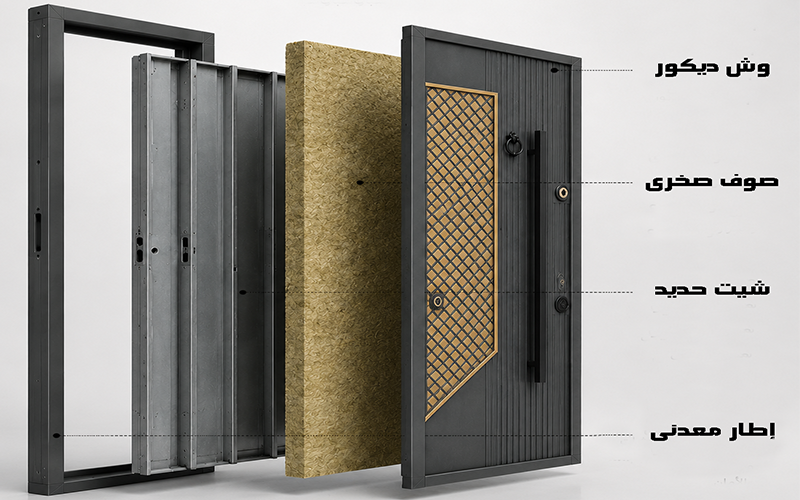
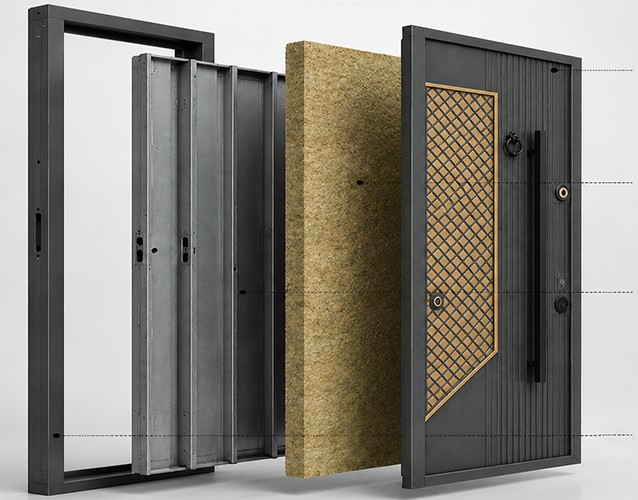
Update doors pages2

diff --git a/armored-doors.html b/armored-doors.html
@@ -6,9 +6,9 @@
     <title>الأبواب المصفحة | Hamed Balata Group</title>
 
     <!-- SEO -->
-    <meta name="description" content="الأبواب المصفحة من Hamed Balata Group: تركي تصفيح كامل، بمقاسات متعددة وسُمك ١٠ أو ١١ سم، بمواصفات أمان وعزل عالية. اختر الموديل المناسب حسب اتجاه الفتح والبار.">
+    <meta name="description" content="الأبواب المصفحة من Hamed Balata Group: تركي تصفيح كامل، سُمك ١٠ أو ١١ سم، بأعلى مواصفة تعاقد..">
     <meta property="og:title" content="الأبواب المصفحة | Hamed Balata Group">
-    <meta property="og:description" content="أقوى الأبواب المصفحة للأمان بأعلى معايير الجودة، بموديلات متعددة حسب اتجاه الفتح والبار.">
+    <meta property="og:description" content="أقوى الأبواب المصفحة للأمان بأعلى معايير الجودة، بموديلات مميزة.">
     <!-- ⚠ TODO: استبدل الرابط ده بصورة OG حقيقية بعد رفعها على السيرفر -->
     <meta property="og:image" content="https://your-domain.com/og-image.jpg">
     <!-- ⚠ TODO: استبدل ده بالدومين الفعلي للموقع بعد النشر -->
@@ -148,7 +148,7 @@
                 <h2 class="font-heading text-3xl md:text-5xl font-black text-slate-900 tracking-tight">الأبواب المصفحة</h2>
             </div>
             <p class="reveal active text-slate-600 text-base md:text-lg leading-relaxed font-medium max-w-2xl">
-                أقوى الأبواب المصفحة للأمان بأعلى معايير الجودة. اختر الموديل المناسب حسب اتجاه الفتح والبار لمشاهدة الأعمال والمعروضات الخاصة به.
+                أقوى الأبواب المصفحة للأمان بأعلى معايير الجودة
             </p>
         </div>
     </header>
@@ -158,7 +158,7 @@
         <div class="container mx-auto max-w-4xl">
 
             <!-- صورة المنتج -->
-            <div class="reveal active h-64 md:h-80 bg-slate-50 rounded-[2rem] overflow-hidden shadow-premium border border-slate-100/80 mb-10">
+            <div class="reveal active h-100 md:h-80 bg-slate-50 rounded-[2rem] overflow-hidden shadow-premium border border-slate-100/80 mb-10">
                 <!-- لا توجد صورة Cover بعد. لإضافة صورة لاحقًا ضع الملف باسم armored-doors-detail.jpg داخل مجلد products/ -->
                 <img src="products/armored-doors-detail.jpg" onerror="this.onerror=null;this.src='https://images.unsplash.com/photo-1517646331032-9e8563c520a1?w=1200&auto=format&fit=crop'" alt="الأبواب المصفحة" loading="lazy" class="w-full h-full object-cover">
             </div>
@@ -167,19 +167,19 @@
             <div class="reveal active bg-white rounded-[2rem] shadow-premium border border-slate-100/80 p-7 md:p-10 mb-10">
                 <h3 class="font-heading text-xl md:text-2xl font-black text-slate-900 tracking-tight mb-4">عن المنتج</h3>
                 <p class="text-slate-600 text-sm md:text-base leading-relaxed font-medium mb-8">
-                    كل الموديلات تركي تصفيح كامل، موجود عرض ١ متر، ومتاح كمان مقاسات خاصة بسُمك ١٠ سم أو ١١ سم.
+                    كل الموديلات تركي تصفيح كامل، موجود عرض ١ متر ومتاح كمان مقاسات خاصة، بسُمك ١٠ سم أو ١١ سم.
                 </p>
 
                 <!-- المقاسات -->
                 <h3 class="font-heading text-lg md:text-xl font-black text-slate-900 tracking-tight mb-4">المقاسات المتاحة</h3>
                 <div class="flex flex-wrap gap-2 mb-8">
-                    <span class="bg-amber-50 border border-amber-200 text-amber-700 text-sm font-bold px-4 py-2 rounded-xl">١ م (استاندرد)</span>
+                    <span class="bg-amber-50 border border-amber-200 text-amber-700 text-sm font-bold px-4 py-2 rounded-xl">١ م (standard)</span>
                     <span class="bg-slate-50 border border-slate-100 text-slate-700 text-sm font-bold px-4 py-2 rounded-xl">٩٠ سم</span>
                     <span class="bg-slate-50 border border-slate-100 text-slate-700 text-sm font-bold px-4 py-2 rounded-xl">١١٠ سم</span>
                     <span class="bg-slate-50 border border-slate-100 text-slate-700 text-sm font-bold px-4 py-2 rounded-xl">١٢٠ سم</span>
                     <span class="bg-slate-50 border border-slate-100 text-slate-700 text-sm font-bold px-4 py-2 rounded-xl">١٥٠ سم</span>
                     <span class="bg-slate-50 border border-slate-100 text-slate-700 text-sm font-bold px-4 py-2 rounded-xl">١٨٠ سم</span>
-                    <span class="bg-slate-50 border border-slate-100 text-slate-700 text-sm font-bold px-4 py-2 rounded-xl">٢٠٠ سم</span>
+                    <span class="bg-slate-50 border border-slate-100 text-slate-700 text-sm font-bold px-4 py-2 rounded-xl">٢ م</span>
                 </div>
 
                 <!-- المواصفات -->
@@ -191,11 +191,15 @@
                     </li>
                     <li class="flex items-start gap-3 text-slate-600 text-sm md:text-base font-medium">
                         <span class="text-amber-600 shrink-0 mt-0.5">●</span>
+                         شاسيه داخلي حديد مصفح كامل
+                    </li>
+                    <li class="flex items-start gap-3 text-slate-600 text-sm md:text-base font-medium">
+                        <span class="text-amber-600 shrink-0 mt-0.5">●</span>
                         حشو صوف صخري لعزل الصوت والحرارة
                     </li>
                     <li class="flex items-start gap-3 text-slate-600 text-sm md:text-base font-medium">
                         <span class="text-amber-600 shrink-0 mt-0.5">●</span>
-                        تصفيح كامل + شِفّة أمان ١ سم
+                        شِفّة أمان ١ سم
                     </li>
                     <li class="flex items-start gap-3 text-slate-600 text-sm md:text-base font-medium">
                         <span class="text-amber-600 shrink-0 mt-0.5">●</span>
@@ -203,15 +207,7 @@
                     </li>
                     <li class="flex items-start gap-3 text-slate-600 text-sm md:text-base font-medium">
                         <span class="text-amber-600 shrink-0 mt-0.5">●</span>
-                        مقبض خارجي ثابت
-                    </li>
-                    <li class="flex items-start gap-3 text-slate-600 text-sm md:text-base font-medium">
-                        <span class="text-amber-600 shrink-0 mt-0.5">●</span>
-                        عين سحرية
-                    </li>
-                    <li class="flex items-start gap-3 text-slate-600 text-sm md:text-base font-medium">
-                        <span class="text-amber-600 shrink-0 mt-0.5">●</span>
-                        وش MDF خارجي ١٠ مم بقشرة (طبيعية/أكريليك/صناعية)
+                        وش MDF خارجي ديكوري ١٠ مم
                     </li>
                     <li class="flex items-start gap-3 text-slate-600 text-sm md:text-base font-medium">
                         <span class="text-amber-600 shrink-0 mt-0.5">●</span>
@@ -219,10 +215,7 @@
                     </li>
                 </ul>
 
-                <h3 class="font-heading text-xl md:text-2xl font-black text-slate-900 tracking-tight mb-4">اختر الموديل المناسب</h3>
-                <p class="text-slate-500 text-sm md:text-base leading-relaxed font-medium mb-6">
-                    الموديلات متاحة بأربع تركيبات حسب اتجاه فتح الباب وموضع البار. اختر التركيبة المناسبة لمشاهدة الأعمال والمعروضات الخاصة بها على Google Drive.
-                </p>
+                <h3 class="font-heading text-xl md:text-2xl font-black text-slate-900 tracking-tight mb-4">تصفح الموديلات المتاحة:</h3>
 
                 <!-- الأربعة أزرار -->
                 <div class="grid grid-cols-1 sm:grid-cols-2 gap-4">
